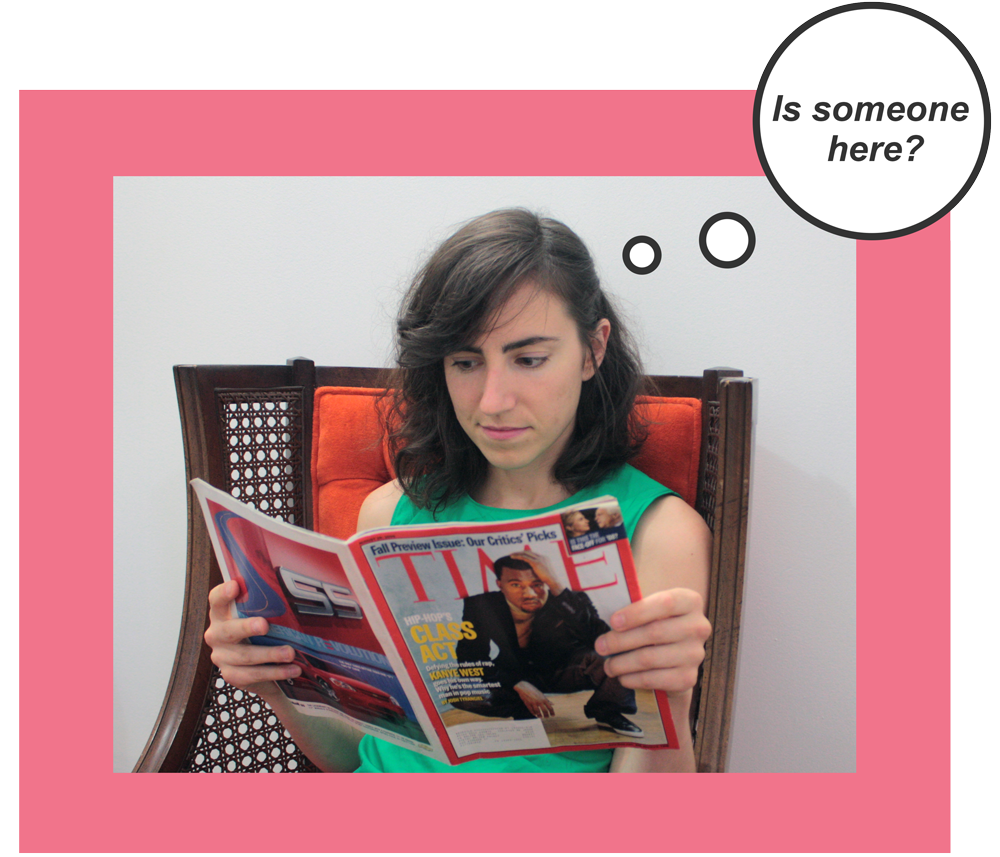
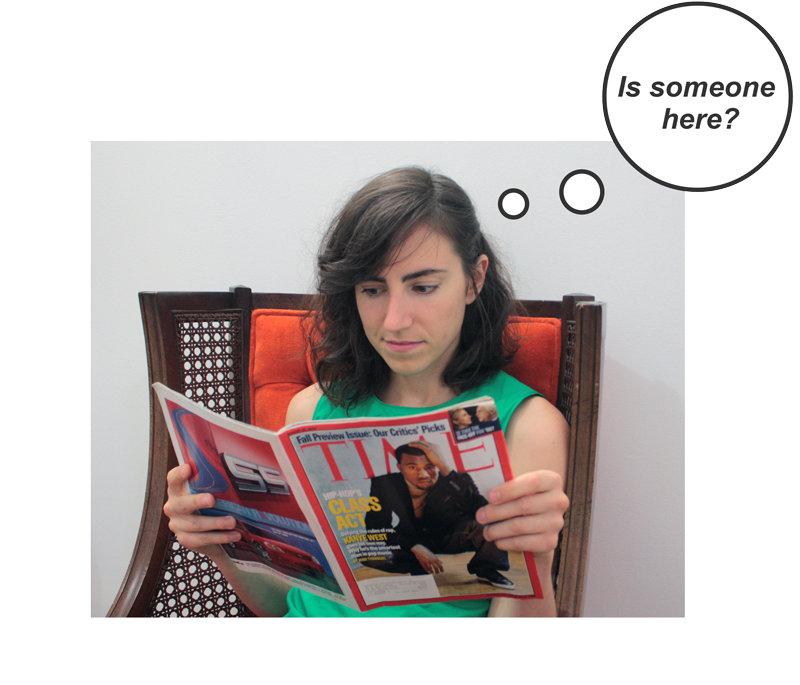
refinements!

diff --git a/portfolio-current/index.html b/portfolio-current/index.html
@@ -42,8 +42,8 @@
 		<a class="navigation__logo" href="../index.html"><img src="assets/images/general/tanyabrassielogo.svg"></a>
 		<ul class="navigation__list">
 			<li class="navigation__item"><a class="navigation__link" href="#work">Work</a></li> &#5159;
-			<li class="navigation__item"><a class="navigation__link" href="#work">About</a></li> &#5159;
-			<li class="navigation__item"><a class="navigation__link" href="#about">Contact</a></li>&#5159;
+<!-- 			<li class="navigation__item"><a class="navigation__link" href="#work">About</a></li> &#5159;
+ -->			<li class="navigation__item"><a class="navigation__link" href="#about">Contact</a></li>&#5159;
 			<li class="navigation__item--icon"><a href="https://dribbble.com/tanyabrassie"><img src="assets/images/general/dribbble.svg"></a></li>
 			<li class="navigation__item--icon"><a href="https://dribbble.com/tanyabrassie"><img src="assets/images/general/dribbble.svg"></a></li>
 		</ul>
@@ -52,13 +52,16 @@
 		<section class="welcome group"> </a>
 
 		<div class="welcome__container">
-			<img class="welcome__image" src="assets/images/general/tanya.png">
+			<div class="welcome__image-container">
+			<img class="welcome__image" src="assets/images/general/tanya.gif">
+			<!-- <svg class="nub" xmlns="http://www.w3.org/2000/svg" viewBox="0 0 960 560" enable-background="new 0 0 960 560"><path class="nub__arm-animation" fill="#C6C4B3" d="M410.1 341c-9.2 12.9-30.1 16-46.4 7-16.3-9-21.9-26.5-12.4-39.1 48.8-66.5 95.7-135 136.2-211.3 7.8-14.6 26.7-26.7 42.3-18.7 15.5 7.8 23.3 21.6 12.1 44.9-39.8 77-83.8 149.6-131.8 217.2z"/><path fill="#D3D3C1" d="M422 560c15.1-129.2-2.9-258.4-5.6-387.6-.2-5.8-.2-11.9-.2-17.7-.7-80.1-50.3-125.6-120.9-125.6-70.2 0-134.5 45.4-133.8 125.3-.2 0-.5-.2-1-.2 1.2 134.8 21.4 269.8 6.1 404.6 84.9.2 170.1.7 255.4 1.2z"/><path fill="#F95A6D" d="M343.8 287.8c-42.5 0-90.3-25-111.2-36.9l-37.6 7.3s10.9-12.9 17-20.4c5.3-6.8 20.2-23.6 20.2-23.6 23.8-26.2 49.8-49.5 80.9-63.1 15.5-6.8 31.6-10.4 47.4-10.4 38.6 0 69.9 21.9 76.5 53.2 4.6 21.9.7 42-10.7 57.8-12.9 17.7-34.5 29.4-63.9 34.5-6.3.8-12.3 1.6-18.6 1.6zm-81.9-57.1c18 10 54.2 27.4 85 27.4 4.1 0 8.3-.2 11.9-1 20.2-3.6 34.5-10.9 42.5-21.9 8.7-11.9 8-25.7 6.1-35.5-3.6-17.7-21.9-29.6-45.4-29.6-10.7 0-21.6 2.4-32.5 7.3-24.3 10.6-48.9 32.9-67.6 53.3z"/><path d="M261.7 230.2c18.5 10.2 54.9 27.7 86.5 27.7 4.4 0 8.3-.2 12.1-1 20.6-3.6 35-11.2 43.2-22.1 8.7-11.9 8.3-26.2 6.1-36.2-3.9-18-22.3-30.1-46.1-30.1-10.9 0-21.9 2.4-33 7.3-24.9 10.9-49.9 33.8-68.8 54.4zm124.6-112.9c-8.5 0-15.5-7-15.5-15.5s7-15.5 15.5-15.5 15.5 7 15.5 15.5-7 15.5-15.5 15.5zm0-27.9c-6.8 0-12.1 5.6-12.1 12.4s5.6 12.4 12.1 12.4c6.8 0 12.1-5.6 12.1-12.4s-5.3-12.4-12.1-12.4zM192 122.2c-8.5 0-15.5-7-15.5-15.5s7-15.5 15.5-15.5 15.5 7 15.5 15.5c0 8.7-7 15.5-15.5 15.5zm0-28.2c-6.8 0-12.1 5.6-12.1 12.4s5.3 12.4 12.1 12.4 12.1-5.6 12.1-12.4S198.5 94 192 94z"/><circle cx="190.8" cy="107.1" r="5.3"/><circle cx="385.3" cy="101.8" r="5.3"/><path d="M164.3 77c-.7 0-1.5-.2-1.9-1l-13.8-17c-.7-1-.7-2.7.2-3.4 1-.7 2.7-.7 3.4.2l13.8 17c.7 1 .7 2.7-.2 3.4-.5.5-1 .8-1.5.8zm-9.7 14.6c-.2 0-.7 0-1-.2l-21.9-9.7c-1.2-.5-1.7-1.9-1.2-3.2.5-1.2 1.9-1.7 3.2-1.2l21.9 9.7c1.2.5 1.7 1.9 1.2 3.2-.5.6-1.2 1.4-2.2 1.4zm257.4-17c-.5 0-1.2-.2-1.7-.7-1-1-1-2.4 0-3.4l16.3-17c1-1 2.4-1 3.4 0s1 2.4 0 3.4l-16.3 17c-.5.4-1 .7-1.7.7zm9.7 14.5c-1 0-1.7-.5-2.2-1.5-.5-1.2 0-2.7 1.2-3.2l21.9-9.7c1.2-.5 2.7 0 3.2 1.2s0 2.7-1.2 3.2l-21.9 9.7c-.3.1-.7.3-1 .3zm-160 206c-.7 6.3-4.4 7.8-8.7 7.3-4.4-.5-7.3-5.8-6.8-12.1s8-16 8-16c1.2 7.9 8.2 14.7 7.5 20.8z"/><path class="nub__arm-animation"fill="#C6C4B3" d="M212.6 317.6c6.1 14.8-2.4 31.6-19.7 37.6-17 6.1-36.4-1-43-15.8-33.5-76.7-52-149.1-71.9-226.1-3.8-14.7-.2-36.3 18.3-42.4 18.5-6.1 32.8 4.6 36.4 19.4 18.7 77 47.6 150.6 79.9 227.3z"/><ellipse fill="#fff" cx="756.8" cy="218.3" rx="165.1" ry="124.6"/><path fill="#fff" d="M590 255c.8 1.5-63.9-15.6-63.9-15.6s34.4-9.4 56.9-29.9c0 0-3.6 25.5 7 45.5z"/><path d="M727 172.4h.5c.7 0 1.5.2 1.9.7.5.5.7 1 .7 1.7 0 1-.2 1.5-.7 1.9-.5.5-1.2.5-2.2.5h-6.8c-1 0-1.7-.2-2.2-.5-.5-.5-.7-1-.7-1.9 0-1 .2-1.5.7-1.9.5-.5 1.2-.5 2.2-.5h.7l-1-2.7h-9.7l-1 2.7h.7c1 0 1.7.2 2.2.5.5.5.7 1 .7 1.9 0 1-.2 1.5-.7 1.9-.5.5-1.2.5-2.2.5h-5.8c-1 0-1.7-.2-2.2-.5s-.7-1-.7-1.9c0-.7.2-1.5.7-1.7s1-.7 1.9-.7h.5l6.1-16.8H709c-1 0-1.7-.2-2.2-.5-.5-.5-.7-1-.7-1.9s.2-1.5.7-1.9c.5-.5 1.2-.5 2.2-.5h8.5c1.5 0 2.2.7 2.9 2.2l6.6 19.4zm-11.9-17l-3.2 9.5h6.6l-3.4-9.5zm24.7 0v5.1h7.3v-5.1h-.2c-.7 0-1.5-.2-1.9-.7-.5-.5-.7-1-.7-1.9 0-1 .2-1.5.7-1.9.5-.5 1.2-.5 2.2-.5h5.8c1 0 1.7.2 2.2.5.5.5.7 1 .7 1.9 0 .7-.2 1.5-.7 1.9-.5.5-1 .7-1.7.7h-.5v17h.5c.7 0 1.5.2 1.9.7.5.5.7 1 .7 1.7 0 1-.2 1.5-.7 1.9-.5.5-1.2.5-2.2.5h-6.1c-1 0-1.7-.2-2.2-.5-.5-.5-.7-1-.7-1.9 0-.7.2-1.5.7-1.7.5-.5 1-.7 1.9-.7h.2v-6.6h-7.3v6.6h.2c.7 0 1.5.2 1.9.7.5.5.7 1 .7 1.7 0 1-.2 1.5-.7 1.9-.5.5-1.2.5-2.2.5H734c-1 0-1.7-.2-2.2-.5-.5-.5-.7-1-.7-1.9 0-.7.2-1.5.7-1.7.5-.5 1-.7 1.9-.7h.5v-17h-.5c-.7 0-1.5-.2-1.7-.7-.5-.5-.7-1-.7-1.9 0-1 .2-1.5.7-1.9.5-.5 1.2-.5 2.2-.5h5.8c1 0 1.7.2 2.2.5.5.2.7 1 .7 1.9 0 .7-.2 1.5-.7 1.9-.5.5-1 .7-1.9.7h-.5zm28 0v5.1h7.3v-5.1h-.2c-.7 0-1.5-.2-1.9-.7-.5-.5-.7-1-.7-1.9 0-1 .2-1.5.7-1.9.5-.5 1.2-.5 2.2-.5h5.8c1 0 1.7.2 2.2.5.5.5.7 1 .7 1.9 0 .7-.2 1.5-.7 1.9-.5.5-1 .7-1.7.7h-.5v17h.5c.7 0 1.5.2 1.9.7.5.5.7 1 .7 1.7 0 1-.2 1.5-.7 1.9-.5.5-1.2.5-2.2.5h-5.8c-1 0-1.7-.2-2.2-.5-.5-.5-.7-1-.7-1.9 0-.7.2-1.5.7-1.7.5-.5 1-.7 1.9-.7h.2v-6.6H768v6.6h.2c.7 0 1.5.2 1.9.7.5.5.7 1 .7 1.7 0 1-.2 1.5-.7 1.9-.5.5-1.2.5-2.2.5h-5.8c-1 0-1.7-.2-2.2-.5-.5-.5-.7-1-.7-1.9 0-.7.2-1.5.7-1.7.5-.5 1-.7 1.9-.7h.5v-17h-.5c-.7 0-1.5-.2-1.7-.7-.5-.5-.7-1-.7-1.9 0-1 .2-1.5.7-1.9.5-.5 1.2-.5 2.2-.5h5.8c1 0 1.7.2 2.2.5s.7 1 .7 1.9c0 .7-.2 1.5-.7 1.9-.5.5-1 .7-1.9.7h-.6zm31.5 14.8c1.5 0 2.4.2 3.2 1 .7.7 1.2 1.7 1.2 2.7 0 1.2-.5 1.9-1.2 2.7-.7.7-1.9 1-3.2 1-1.2 0-2.4-.2-3.2-1s-1.2-1.7-1.2-2.7c0-1.2.5-1.9 1.2-2.7.8-.7 2-1 3.2-1zm3-18.2l-1 14.6c0 .5-.2 1-.7 1.2-.5.2-1 .5-1.5.5s-1-.2-1.5-.5c-.5-.2-.5-.7-.7-1.2l-1-14.6v-.2c0-1 .2-1.7.7-2.2.5-.5 1.2-.7 2.2-.7 1 0 1.7.2 2.2.7 1 .7 1.3 1.4 1.3 2.4zm-137 54.4c.2-.5.5-.7.7-1 .2-.2.7-.2 1.2-.2 1 0 1.5.2 1.7.5s.5 1 .5 1.9v4.6c0 1-.2 1.5-.5 1.9-.2.2-1 .5-1.7.5-1 0-1.9-.5-2.4-1.7 0-.2-.2-.2-.2-.5-.5-1-1.2-1.7-1.9-2.2s-1.7-.7-2.9-.7c-1.5 0-2.4.2-3.4 1-.7.7-1.2 1.5-1.2 2.4 0 1.5 1.9 2.4 5.8 3.2.7.2 1.2.2 1.5.2 2.9.7 4.9 1.7 6.3 2.9 1.2 1.2 1.9 3.2 1.9 5.3 0 2.7-1 4.9-2.9 6.3-1.9 1.5-4.6 2.2-8 2.2-1.5 0-2.7 0-3.6-.2-1-.2-2.2-.5-3.2-.7-.2.5-.5.7-.7.7-.2 0-.7.2-1.2.2-1 0-1.7-.2-1.9-.5-.5-.2-.5-1-.5-1.9V225c0-1 .2-1.7.5-2.2.5-.5 1-.5 1.9-.5s1.7.7 2.4 2.2c.2.2.2.5.2.7.5 1.2 1.5 1.9 2.4 2.7 1 .5 2.4 1 3.9 1s2.4-.2 3.2-1 1.2-1.5 1.2-2.4c0-1.7-1.7-2.9-5.1-3.6-1-.2-1.9-.5-2.4-.7-2.9-.7-4.9-1.7-6.1-2.9-1.2-1.2-1.7-2.7-1.7-4.6 0-2.7 1-4.6 2.9-6.3 1.9-1.7 4.4-2.4 7.5-2.4 1 0 1.9 0 2.9.2.9.5 1.9.7 2.9 1.2zm22.3-1.2c3.6 0 6.8 1.2 9.2 3.9 2.4 2.7 3.6 6.1 3.6 10.2s-1.2 7.5-3.6 10.2c-2.4 2.7-5.3 3.9-9.2 3.9-3.6 0-6.8-1.2-9.2-3.9-2.4-2.7-3.6-6.1-3.6-10.2s1.2-7.5 3.6-10.2c2.4-2.7 5.6-3.9 9.2-3.9zm0 5.1c-1.9 0-3.4.7-4.6 2.4-1.2 1.5-1.7 3.6-1.7 6.6 0 2.9.5 4.9 1.7 6.6 1.2 1.5 2.7 2.4 4.6 2.4s3.4-.7 4.6-2.4c1.2-1.5 1.7-3.6 1.7-6.6 0-2.7-.5-4.9-1.7-6.6-1.2-1.4-2.6-2.4-4.6-2.4zm28 10.7l4.4-12.9c.2-.7.7-1.5 1.2-1.9.5-.5 1.2-.5 1.9-.5h3.4c1 0 1.7.2 2.2.5.5.5.7 1 .7 1.9 0 .7-.2 1.5-.7 1.9-.5.5-1 .7-1.9.7h-.2l.7 16.8h.5c.7 0 1.5.2 1.9.7s.7 1 .7 1.7c0 1-.2 1.5-.7 1.9-.5.5-1.2.5-2.2.5h-5.1c-1 0-1.7-.2-2.2-.5-.5-.5-.7-1-.7-1.9 0-.7.2-1.5.7-1.7.5-.5 1-.7 1.9-.7h.2l-.2-13.8-3.4 10.2c-.2.7-.5 1.2-1 1.7-.5.2-1 .5-1.9.5-.7 0-1.5-.2-1.9-.5-.5-.2-.7-1-1-1.7l-3.2-10.2-.2 13.8h.2c.7 0 1.5.2 1.9.7.5.5.7 1 .7 1.7 0 1-.2 1.5-.7 1.9-.5.5-1.2.5-2.2.5h-5.1c-1 0-1.7-.2-2.2-.5-.5-.2-.7-1-.7-1.9 0-.7.2-1.5.7-1.7.5-.5 1-.7 1.9-.7h.2l.7-16.8h-.2c-.7 0-1.5-.2-1.9-.7-.5-.5-.7-1-.7-1.9 0-1 .2-1.5.7-1.9.5-.5 1.2-.5 2.2-.5h3.4c.7 0 1.5.2 1.9.5.5.5 1 1 1.2 1.9l4.1 12.9zm34.4-10.2h-10.4v5.8h3.9v-.5c0-1 .2-1.5.5-1.9.5-.5 1-.7 1.7-.7s1.2.2 1.7.5c.5.5.7 1 .7 1.5v5.6c0 1-.2 1.7-.5 2.2-.2.5-1 .7-1.7.7s-1.5-.2-1.7-.7c-.5-.5-.5-1-.5-1.7v-.6h-3.9v6.8h10.4v-2.7c0-1 .2-1.7.5-2.2.5-.5 1-.7 1.9-.7 1 0 1.5.2 1.9.7.5.5.5 1.2.5 2.2v5.6c0 .7-.2 1.5-.5 1.7s-1 .5-1.9.5h-18.5c-1 0-1.7-.2-2.2-.5-.5-.5-.7-1-.7-1.9 0-.7.2-1.5.7-1.7s1-.7 1.7-.7h.5v-16.8h-.5c-.7 0-1.5-.2-1.7-.7-.5-.5-.7-1-.7-1.9 0-1 .2-1.5.7-1.9.5-.5 1.2-.5 2.2-.5h18.5c1 0 1.5.2 1.9.5.2.2.5.7.5 1.7v5.1c0 1-.2 1.7-.5 2.2-.5.5-1 .7-1.9.7-1 0-1.5-.2-1.9-.7-.5-.5-.5-1.2-.5-2.2v-2.7l-.2-.1zm21.4-5.6c3.6 0 6.8 1.2 9.2 3.9 2.4 2.7 3.6 6.1 3.6 10.2s-1.2 7.5-3.6 10.2c-2.4 2.7-5.3 3.9-9.2 3.9-3.6 0-6.8-1.2-9.2-3.9-2.4-2.7-3.6-6.1-3.6-10.2s1.2-7.5 3.6-10.2c2.4-2.7 5.6-3.9 9.2-3.9zm0 5.1c-1.9 0-3.4.7-4.6 2.4-1.2 1.5-1.7 3.6-1.7 6.6 0 2.9.5 4.9 1.7 6.6 1.2 1.5 2.7 2.4 4.6 2.4s3.4-.7 4.6-2.4c1.2-1.5 1.7-3.6 1.7-6.6 0-2.7-.5-4.9-1.7-6.6-1.2-1.4-2.6-2.4-4.6-2.4zm33 13.1V211h-1.2c-1 0-1.7-.2-2.2-.5-.5-.5-.7-1-.7-1.9 0-1 .2-1.5.7-1.9.5-.5 1.2-.5 2.2-.5h6.3c1 0 1.7.2 2.2.5.5.5.7 1 .7 1.9 0 .7-.2 1.5-.7 1.9-.5.5-1 .7-1.7.7h-.5v20.4c0 .7 0 1.2-.2 1.2-.2.2-.5.2-1 .2h-2.2c-.7 0-1.2 0-1.5-.2l-.7-.7-9.5-16.5v12.1h1.2c1 0 1.7.2 2.2.5.5.5.7 1 .7 1.9 0 1-.2 1.5-.7 1.9-.5.5-1.2.5-2.2.5H789c-1 0-1.7-.2-2.2-.5-.5-.5-.7-1-.7-1.9 0-.7.2-1.5.7-1.7s1-.7 1.7-.7h.2V211h-.2c-.7 0-1.5-.2-1.7-.7-.5-.5-.7-1-.7-1.9 0-1 .2-1.5.7-1.9.5-.5 1.2-.5 2.2-.5h3.6c1 0 1.5 0 1.7.2.2.2.7.7 1 1.5l9.1 15.7zm29.4-12.6h-10.4v5.8h3.9v-.5c0-1 .2-1.5.5-1.9.5-.5 1-.7 1.7-.7s1.2.2 1.7.5c.5.5.7 1 .7 1.5v5.6c0 1-.2 1.7-.5 2.2s-1 .7-1.7.7-1.5-.2-1.7-.7c-.5-.5-.5-1-.5-1.7v-.6h-3.9v6.8H834v-2.7c0-1 .2-1.7.5-2.2.5-.5 1-.7 1.9-.7 1 0 1.5.2 1.9.7.5.5.5 1.2.5 2.2v5.6c0 .7-.2 1.5-.5 1.7s-1 .5-1.9.5H818c-1 0-1.7-.2-2.2-.5-.5-.5-.7-1-.7-1.9 0-.7.2-1.5.7-1.7s1-.7 1.7-.7h.5v-16.8h-.5c-.7 0-1.5-.2-1.7-.7-.5-.5-.7-1-.7-1.9 0-1 .2-1.5.7-1.9.5-.5 1.2-.5 2.2-.5h18.5c1 0 1.5.2 1.9.5.2.2.5.7.5 1.7v5.1c0 1-.2 1.7-.5 2.2-.5.5-1 .7-1.9.7-1 0-1.5-.2-1.9-.7-.5-.5-.5-1.2-.5-2.2v-2.7l-.3-.1zm20.9-4.9h4.4c.2 0 .2 0 .5.2l.2.2v.5l-5.6 10.7c0 .2-.2.5-.5.5s-.2.2-.5.2h-.5l-1.5-.5c-.2 0-.5-.2-.5-.2 0-.2-.2-.2-.2-.5v-.5l2.7-9.5c.2-.5.2-.7.5-1 .5-.1.8-.1 1-.1zm34 .5c.2-.5.5-.7.7-1 .2-.2.7-.2 1.2-.2 1 0 1.5.2 1.7.5s.5 1 .5 1.9v4.6c0 1-.2 1.5-.5 1.9-.2.2-1 .5-1.7.5-1 0-1.9-.5-2.4-1.7 0-.2-.2-.2-.2-.5-.5-1-1.2-1.7-1.9-2.2s-1.7-.7-2.9-.7c-1.5 0-2.4.2-3.4 1-.7.7-1.2 1.5-1.2 2.4 0 1.5 1.9 2.4 5.8 3.2.7.2 1.2.2 1.5.2 2.9.7 4.9 1.7 6.3 2.9 1.2 1.2 1.9 3.2 1.9 5.3 0 2.7-1 4.9-2.9 6.3-1.9 1.5-4.6 2.2-8 2.2-1.5 0-2.7 0-3.6-.2-1-.2-2.2-.5-3.2-.7-.2.5-.5.7-.7.7-.2 0-.7.2-1.2.2-1 0-1.7-.2-1.9-.5-.5-.2-.5-1-.5-1.9V225c0-1 .2-1.7.5-2.2.5-.5 1-.5 1.9-.5 1 0 1.7.7 2.4 2.2.2.2.2.5.2.7.5 1.2 1.5 1.9 2.4 2.7 1 .5 2.4 1 3.9 1s2.4-.2 3.2-1 1.2-1.5 1.2-2.4c0-1.7-1.7-2.9-5.1-3.6-1-.2-1.9-.5-2.4-.7-2.9-.7-4.9-1.7-6.1-2.9-1.2-1.2-1.7-2.7-1.7-4.6 0-2.7 1-4.6 2.9-6.3s4.4-2.4 7.5-2.4c1 0 1.9 0 2.9.2 1 .5 1.9.7 2.9 1.2zm-176.8 59.8v5.1h7.3v-5.1h-.2c-.7 0-1.5-.2-1.9-.7-.5-.5-.7-1-.7-1.9 0-1 .2-1.5.7-1.9.5-.5 1.2-.5 2.2-.5h5.8c1 0 1.7.2 2.2.5.5.5.7 1 .7 1.9 0 .7-.2 1.5-.7 1.9-.5.5-1 .7-1.7.7h-.6V283h.5c.7 0 1.5.2 1.9.7.5.5.7 1 .7 1.7 0 1-.2 1.5-.7 1.9-.5.5-1.2.5-2.2.5h-5.8c-1 0-1.7-.2-2.2-.5-.5-.5-.7-1-.7-1.9 0-.7.2-1.5.7-1.7.5-.5 1-.7 1.9-.7h.2v-6.6H712v6.6h.2c.7 0 1.5.2 1.9.7.5.5.7 1 .7 1.7 0 1-.2 1.5-.7 1.9-.5.5-1.2.5-2.2.5h-5.8c-1 0-1.7-.2-2.2-.5-.5-.5-.7-1-.7-1.9 0-.7.2-1.5.7-1.7.5-.5 1-.7 1.9-.7h.5v-16.8h-.5c-.7 0-1.5-.2-1.7-.7-.5-.5-.7-1-.7-1.9 0-1 .2-1.5.7-1.9.5-.5 1.2-.5 2.2-.5h5.8c1 0 1.7.2 2.2.5.5.2.7 1 .7 1.9 0 .7-.2 1.5-.7 1.9-.5.5-1 .7-1.9.7h-.5zm38.1 0h-10.4v5.8h3.9v-.2c0-1 .2-1.5.5-1.9.5-.5 1-.7 1.7-.7s1.2.2 1.7.5c.5.5.7 1 .7 1.5v5.3c0 1-.2 1.7-.5 2.2-.2.5-1 .7-1.7.7s-1.5-.2-1.7-.7c-.5-.5-.5-1-.5-1.7v-.5h-3.9v6.8h10.4v-2.7c0-1 .2-1.7.5-2.2.5-.5 1-.7 1.9-.7 1 0 1.5.2 1.9.7.5.5.5 1.2.5 2.2v5.3c0 .7-.2 1.5-.5 1.7s-1 .5-1.9.5h-18.5c-1 0-1.7-.2-2.2-.5-.5-.5-.7-1-.7-1.9 0-.7.2-1.5.7-1.7s1-.7 1.7-.7h.5v-16.8h-.5c-.7 0-1.5-.2-1.7-.7-.5-.5-.7-1-.7-1.9 0-1 .2-1.5.7-1.9.5-.5 1.2-.5 2.2-.5h18.5c1 0 1.5.2 1.9.5.2.2.5.7.5 1.7v5.1c0 1-.2 1.7-.5 2.2-.5.5-1 .7-1.9.7-1 0-1.5-.2-1.9-.7-.5-.5-.5-1.2-.5-2.2v-2.4l-.2-.2zm27 9.4c.5.2.7.7 1.2 1.2 0 0 0 .2.2.2l3.6 5.8h.7c1 0 1.5.2 1.9.5.5.5.7 1 .7 1.9 0 1-.2 1.5-.7 1.9-.5.5-1.2.5-2.2.5h-2.7c-1 0-1.7-.5-2.4-1.2l-5.6-8.5-.7-.7s-.5-.2-1-.2h-2v5.8h.2c.7 0 1.5.2 1.9.7.5.5.7 1 .7 1.7 0 1-.2 1.5-.7 1.9-.5.5-1.2.5-2.2.5h-5.8c-1 0-1.7-.2-2.2-.5-.5-.5-.7-1-.7-1.9 0-.7.2-1.5.7-1.7.5-.5 1-.7 1.7-.7h.5V266h-.5c-.7 0-1.5-.2-1.7-.7-.5-.5-.7-1-.7-1.9 0-1 .2-1.5.7-1.9.5-.5 1.2-.5 2.2-.5h10.4c3.2 0 5.6.7 7.3 1.9s2.4 3.2 2.4 5.6c0 1.7-.5 3.2-1.5 4.4-.8 1.3-2 2.2-3.7 2.7zm-9.2-9.4v6.3h3.2c1.9 0 3.2-.2 3.9-.7.7-.5 1.2-1.2 1.2-2.4s-.2-1.9-1-2.4c-.7-.5-1.7-.7-3.4-.7h-3.9v-.1zm38.1 0h-10.4v5.8h3.9v-.2c0-1 .2-1.5.5-1.9.5-.5 1-.7 1.7-.7s1.2.2 1.7.5c.5.5.7 1 .7 1.5v5.3c0 1-.2 1.7-.5 2.2-.2.5-1 .7-1.7.7s-1.5-.2-1.7-.7c-.5-.5-.5-1-.5-1.7v-.5h-3.9v6.8h10.4v-2.7c0-1 .2-1.7.5-2.2.5-.5 1-.7 1.9-.7s1.5.2 1.9.7c.5.5.5 1.2.5 2.2v5.3c0 .7-.2 1.5-.5 1.7s-1 .5-1.9.5H790c-1 0-1.7-.2-2.2-.5-.5-.5-.7-1-.7-1.9 0-.7.2-1.5.7-1.7s1-.7 1.7-.7h.5v-16.8h-.5c-.7 0-1.5-.2-1.7-.7-.5-.5-.7-1-.7-1.9 0-1 .2-1.5.7-1.9.5-.5 1.2-.5 2.2-.5h18.5c1 0 1.5.2 1.9.5.2.2.5.7.5 1.7v5.1c0 1-.2 1.7-.5 2.2-.5.5-1 .7-1.9.7s-1.5-.2-1.9-.7c-.5-.5-.5-1.2-.5-2.2v-2.4l-.2-.2zm21.4 14.8c1.5 0 2.4.2 3.2 1 .7.7 1.2 1.7 1.2 2.7 0 1.2-.5 1.9-1.2 2.7-.7.7-1.9 1-3.2 1s-2.4-.2-3.2-1c-.7-.7-1.2-1.7-1.2-2.7 0-1.2.5-1.9 1.2-2.7.7-.8 2-1 3.2-1zm2.9-18.2l-1 14.6c0 .5-.2 1-.7 1.2-.5.2-1 .5-1.5.5s-1-.2-1.5-.5c-.5-.2-.5-.7-.7-1.2l-1-14.6v-.2c0-1 .2-1.7.7-2.2.5-.5 1.2-.7 2.2-.7s1.7.2 2.2.7c1 .7 1.3 1.4 1.3 2.4z"/></svg> -->
+		</div>
 			<div class="welcome__message">
 				<div class="welcome__headline">Hey You! Over here!</div>
 				<p class="welcome__paragraph">It's me, Tanya and I'm a product designer at Priceline.com where I've helped build the Priceline style guide and improve the post-booking experience. Although my background is in user-research, my role at Priceline allows me to do many things from user-research to visual design to coding, which I love since it allows me to be involved in every stage of a project's lifespan and to develop a thorough understanding of the product. In my free time I like tinkering around with new technologies, being outside and creating designs for make believe businesses. 
 				</div>	
 			</div>  
-			<svg class="nub" xmlns="http://www.w3.org/2000/svg" viewBox="0 0 960 560" enable-background="new 0 0 960 560"><path class="nub__arm-animation" fill="#C6C4B3" d="M410.1 341c-9.2 12.9-30.1 16-46.4 7-16.3-9-21.9-26.5-12.4-39.1 48.8-66.5 95.7-135 136.2-211.3 7.8-14.6 26.7-26.7 42.3-18.7 15.5 7.8 23.3 21.6 12.1 44.9-39.8 77-83.8 149.6-131.8 217.2z"/><path fill="#D3D3C1" d="M422 560c15.1-129.2-2.9-258.4-5.6-387.6-.2-5.8-.2-11.9-.2-17.7-.7-80.1-50.3-125.6-120.9-125.6-70.2 0-134.5 45.4-133.8 125.3-.2 0-.5-.2-1-.2 1.2 134.8 21.4 269.8 6.1 404.6 84.9.2 170.1.7 255.4 1.2z"/><path fill="#F95A6D" d="M343.8 287.8c-42.5 0-90.3-25-111.2-36.9l-37.6 7.3s10.9-12.9 17-20.4c5.3-6.8 20.2-23.6 20.2-23.6 23.8-26.2 49.8-49.5 80.9-63.1 15.5-6.8 31.6-10.4 47.4-10.4 38.6 0 69.9 21.9 76.5 53.2 4.6 21.9.7 42-10.7 57.8-12.9 17.7-34.5 29.4-63.9 34.5-6.3.8-12.3 1.6-18.6 1.6zm-81.9-57.1c18 10 54.2 27.4 85 27.4 4.1 0 8.3-.2 11.9-1 20.2-3.6 34.5-10.9 42.5-21.9 8.7-11.9 8-25.7 6.1-35.5-3.6-17.7-21.9-29.6-45.4-29.6-10.7 0-21.6 2.4-32.5 7.3-24.3 10.6-48.9 32.9-67.6 53.3z"/><path d="M261.7 230.2c18.5 10.2 54.9 27.7 86.5 27.7 4.4 0 8.3-.2 12.1-1 20.6-3.6 35-11.2 43.2-22.1 8.7-11.9 8.3-26.2 6.1-36.2-3.9-18-22.3-30.1-46.1-30.1-10.9 0-21.9 2.4-33 7.3-24.9 10.9-49.9 33.8-68.8 54.4zm124.6-112.9c-8.5 0-15.5-7-15.5-15.5s7-15.5 15.5-15.5 15.5 7 15.5 15.5-7 15.5-15.5 15.5zm0-27.9c-6.8 0-12.1 5.6-12.1 12.4s5.6 12.4 12.1 12.4c6.8 0 12.1-5.6 12.1-12.4s-5.3-12.4-12.1-12.4zM192 122.2c-8.5 0-15.5-7-15.5-15.5s7-15.5 15.5-15.5 15.5 7 15.5 15.5c0 8.7-7 15.5-15.5 15.5zm0-28.2c-6.8 0-12.1 5.6-12.1 12.4s5.3 12.4 12.1 12.4 12.1-5.6 12.1-12.4S198.5 94 192 94z"/><circle cx="190.8" cy="107.1" r="5.3"/><circle cx="385.3" cy="101.8" r="5.3"/><path d="M164.3 77c-.7 0-1.5-.2-1.9-1l-13.8-17c-.7-1-.7-2.7.2-3.4 1-.7 2.7-.7 3.4.2l13.8 17c.7 1 .7 2.7-.2 3.4-.5.5-1 .8-1.5.8zm-9.7 14.6c-.2 0-.7 0-1-.2l-21.9-9.7c-1.2-.5-1.7-1.9-1.2-3.2.5-1.2 1.9-1.7 3.2-1.2l21.9 9.7c1.2.5 1.7 1.9 1.2 3.2-.5.6-1.2 1.4-2.2 1.4zm257.4-17c-.5 0-1.2-.2-1.7-.7-1-1-1-2.4 0-3.4l16.3-17c1-1 2.4-1 3.4 0s1 2.4 0 3.4l-16.3 17c-.5.4-1 .7-1.7.7zm9.7 14.5c-1 0-1.7-.5-2.2-1.5-.5-1.2 0-2.7 1.2-3.2l21.9-9.7c1.2-.5 2.7 0 3.2 1.2s0 2.7-1.2 3.2l-21.9 9.7c-.3.1-.7.3-1 .3zm-160 206c-.7 6.3-4.4 7.8-8.7 7.3-4.4-.5-7.3-5.8-6.8-12.1s8-16 8-16c1.2 7.9 8.2 14.7 7.5 20.8z"/><path class="nub__arm-animation"fill="#C6C4B3" d="M212.6 317.6c6.1 14.8-2.4 31.6-19.7 37.6-17 6.1-36.4-1-43-15.8-33.5-76.7-52-149.1-71.9-226.1-3.8-14.7-.2-36.3 18.3-42.4 18.5-6.1 32.8 4.6 36.4 19.4 18.7 77 47.6 150.6 79.9 227.3z"/><ellipse fill="#fff" cx="756.8" cy="218.3" rx="165.1" ry="124.6"/><path fill="#fff" d="M590 255c.8 1.5-63.9-15.6-63.9-15.6s34.4-9.4 56.9-29.9c0 0-3.6 25.5 7 45.5z"/><path d="M727 172.4h.5c.7 0 1.5.2 1.9.7.5.5.7 1 .7 1.7 0 1-.2 1.5-.7 1.9-.5.5-1.2.5-2.2.5h-6.8c-1 0-1.7-.2-2.2-.5-.5-.5-.7-1-.7-1.9 0-1 .2-1.5.7-1.9.5-.5 1.2-.5 2.2-.5h.7l-1-2.7h-9.7l-1 2.7h.7c1 0 1.7.2 2.2.5.5.5.7 1 .7 1.9 0 1-.2 1.5-.7 1.9-.5.5-1.2.5-2.2.5h-5.8c-1 0-1.7-.2-2.2-.5s-.7-1-.7-1.9c0-.7.2-1.5.7-1.7s1-.7 1.9-.7h.5l6.1-16.8H709c-1 0-1.7-.2-2.2-.5-.5-.5-.7-1-.7-1.9s.2-1.5.7-1.9c.5-.5 1.2-.5 2.2-.5h8.5c1.5 0 2.2.7 2.9 2.2l6.6 19.4zm-11.9-17l-3.2 9.5h6.6l-3.4-9.5zm24.7 0v5.1h7.3v-5.1h-.2c-.7 0-1.5-.2-1.9-.7-.5-.5-.7-1-.7-1.9 0-1 .2-1.5.7-1.9.5-.5 1.2-.5 2.2-.5h5.8c1 0 1.7.2 2.2.5.5.5.7 1 .7 1.9 0 .7-.2 1.5-.7 1.9-.5.5-1 .7-1.7.7h-.5v17h.5c.7 0 1.5.2 1.9.7.5.5.7 1 .7 1.7 0 1-.2 1.5-.7 1.9-.5.5-1.2.5-2.2.5h-6.1c-1 0-1.7-.2-2.2-.5-.5-.5-.7-1-.7-1.9 0-.7.2-1.5.7-1.7.5-.5 1-.7 1.9-.7h.2v-6.6h-7.3v6.6h.2c.7 0 1.5.2 1.9.7.5.5.7 1 .7 1.7 0 1-.2 1.5-.7 1.9-.5.5-1.2.5-2.2.5H734c-1 0-1.7-.2-2.2-.5-.5-.5-.7-1-.7-1.9 0-.7.2-1.5.7-1.7.5-.5 1-.7 1.9-.7h.5v-17h-.5c-.7 0-1.5-.2-1.7-.7-.5-.5-.7-1-.7-1.9 0-1 .2-1.5.7-1.9.5-.5 1.2-.5 2.2-.5h5.8c1 0 1.7.2 2.2.5.5.2.7 1 .7 1.9 0 .7-.2 1.5-.7 1.9-.5.5-1 .7-1.9.7h-.5zm28 0v5.1h7.3v-5.1h-.2c-.7 0-1.5-.2-1.9-.7-.5-.5-.7-1-.7-1.9 0-1 .2-1.5.7-1.9.5-.5 1.2-.5 2.2-.5h5.8c1 0 1.7.2 2.2.5.5.5.7 1 .7 1.9 0 .7-.2 1.5-.7 1.9-.5.5-1 .7-1.7.7h-.5v17h.5c.7 0 1.5.2 1.9.7.5.5.7 1 .7 1.7 0 1-.2 1.5-.7 1.9-.5.5-1.2.5-2.2.5h-5.8c-1 0-1.7-.2-2.2-.5-.5-.5-.7-1-.7-1.9 0-.7.2-1.5.7-1.7.5-.5 1-.7 1.9-.7h.2v-6.6H768v6.6h.2c.7 0 1.5.2 1.9.7.5.5.7 1 .7 1.7 0 1-.2 1.5-.7 1.9-.5.5-1.2.5-2.2.5h-5.8c-1 0-1.7-.2-2.2-.5-.5-.5-.7-1-.7-1.9 0-.7.2-1.5.7-1.7.5-.5 1-.7 1.9-.7h.5v-17h-.5c-.7 0-1.5-.2-1.7-.7-.5-.5-.7-1-.7-1.9 0-1 .2-1.5.7-1.9.5-.5 1.2-.5 2.2-.5h5.8c1 0 1.7.2 2.2.5s.7 1 .7 1.9c0 .7-.2 1.5-.7 1.9-.5.5-1 .7-1.9.7h-.6zm31.5 14.8c1.5 0 2.4.2 3.2 1 .7.7 1.2 1.7 1.2 2.7 0 1.2-.5 1.9-1.2 2.7-.7.7-1.9 1-3.2 1-1.2 0-2.4-.2-3.2-1s-1.2-1.7-1.2-2.7c0-1.2.5-1.9 1.2-2.7.8-.7 2-1 3.2-1zm3-18.2l-1 14.6c0 .5-.2 1-.7 1.2-.5.2-1 .5-1.5.5s-1-.2-1.5-.5c-.5-.2-.5-.7-.7-1.2l-1-14.6v-.2c0-1 .2-1.7.7-2.2.5-.5 1.2-.7 2.2-.7 1 0 1.7.2 2.2.7 1 .7 1.3 1.4 1.3 2.4zm-137 54.4c.2-.5.5-.7.7-1 .2-.2.7-.2 1.2-.2 1 0 1.5.2 1.7.5s.5 1 .5 1.9v4.6c0 1-.2 1.5-.5 1.9-.2.2-1 .5-1.7.5-1 0-1.9-.5-2.4-1.7 0-.2-.2-.2-.2-.5-.5-1-1.2-1.7-1.9-2.2s-1.7-.7-2.9-.7c-1.5 0-2.4.2-3.4 1-.7.7-1.2 1.5-1.2 2.4 0 1.5 1.9 2.4 5.8 3.2.7.2 1.2.2 1.5.2 2.9.7 4.9 1.7 6.3 2.9 1.2 1.2 1.9 3.2 1.9 5.3 0 2.7-1 4.9-2.9 6.3-1.9 1.5-4.6 2.2-8 2.2-1.5 0-2.7 0-3.6-.2-1-.2-2.2-.5-3.2-.7-.2.5-.5.7-.7.7-.2 0-.7.2-1.2.2-1 0-1.7-.2-1.9-.5-.5-.2-.5-1-.5-1.9V225c0-1 .2-1.7.5-2.2.5-.5 1-.5 1.9-.5s1.7.7 2.4 2.2c.2.2.2.5.2.7.5 1.2 1.5 1.9 2.4 2.7 1 .5 2.4 1 3.9 1s2.4-.2 3.2-1 1.2-1.5 1.2-2.4c0-1.7-1.7-2.9-5.1-3.6-1-.2-1.9-.5-2.4-.7-2.9-.7-4.9-1.7-6.1-2.9-1.2-1.2-1.7-2.7-1.7-4.6 0-2.7 1-4.6 2.9-6.3 1.9-1.7 4.4-2.4 7.5-2.4 1 0 1.9 0 2.9.2.9.5 1.9.7 2.9 1.2zm22.3-1.2c3.6 0 6.8 1.2 9.2 3.9 2.4 2.7 3.6 6.1 3.6 10.2s-1.2 7.5-3.6 10.2c-2.4 2.7-5.3 3.9-9.2 3.9-3.6 0-6.8-1.2-9.2-3.9-2.4-2.7-3.6-6.1-3.6-10.2s1.2-7.5 3.6-10.2c2.4-2.7 5.6-3.9 9.2-3.9zm0 5.1c-1.9 0-3.4.7-4.6 2.4-1.2 1.5-1.7 3.6-1.7 6.6 0 2.9.5 4.9 1.7 6.6 1.2 1.5 2.7 2.4 4.6 2.4s3.4-.7 4.6-2.4c1.2-1.5 1.7-3.6 1.7-6.6 0-2.7-.5-4.9-1.7-6.6-1.2-1.4-2.6-2.4-4.6-2.4zm28 10.7l4.4-12.9c.2-.7.7-1.5 1.2-1.9.5-.5 1.2-.5 1.9-.5h3.4c1 0 1.7.2 2.2.5.5.5.7 1 .7 1.9 0 .7-.2 1.5-.7 1.9-.5.5-1 .7-1.9.7h-.2l.7 16.8h.5c.7 0 1.5.2 1.9.7s.7 1 .7 1.7c0 1-.2 1.5-.7 1.9-.5.5-1.2.5-2.2.5h-5.1c-1 0-1.7-.2-2.2-.5-.5-.5-.7-1-.7-1.9 0-.7.2-1.5.7-1.7.5-.5 1-.7 1.9-.7h.2l-.2-13.8-3.4 10.2c-.2.7-.5 1.2-1 1.7-.5.2-1 .5-1.9.5-.7 0-1.5-.2-1.9-.5-.5-.2-.7-1-1-1.7l-3.2-10.2-.2 13.8h.2c.7 0 1.5.2 1.9.7.5.5.7 1 .7 1.7 0 1-.2 1.5-.7 1.9-.5.5-1.2.5-2.2.5h-5.1c-1 0-1.7-.2-2.2-.5-.5-.2-.7-1-.7-1.9 0-.7.2-1.5.7-1.7.5-.5 1-.7 1.9-.7h.2l.7-16.8h-.2c-.7 0-1.5-.2-1.9-.7-.5-.5-.7-1-.7-1.9 0-1 .2-1.5.7-1.9.5-.5 1.2-.5 2.2-.5h3.4c.7 0 1.5.2 1.9.5.5.5 1 1 1.2 1.9l4.1 12.9zm34.4-10.2h-10.4v5.8h3.9v-.5c0-1 .2-1.5.5-1.9.5-.5 1-.7 1.7-.7s1.2.2 1.7.5c.5.5.7 1 .7 1.5v5.6c0 1-.2 1.7-.5 2.2-.2.5-1 .7-1.7.7s-1.5-.2-1.7-.7c-.5-.5-.5-1-.5-1.7v-.6h-3.9v6.8h10.4v-2.7c0-1 .2-1.7.5-2.2.5-.5 1-.7 1.9-.7 1 0 1.5.2 1.9.7.5.5.5 1.2.5 2.2v5.6c0 .7-.2 1.5-.5 1.7s-1 .5-1.9.5h-18.5c-1 0-1.7-.2-2.2-.5-.5-.5-.7-1-.7-1.9 0-.7.2-1.5.7-1.7s1-.7 1.7-.7h.5v-16.8h-.5c-.7 0-1.5-.2-1.7-.7-.5-.5-.7-1-.7-1.9 0-1 .2-1.5.7-1.9.5-.5 1.2-.5 2.2-.5h18.5c1 0 1.5.2 1.9.5.2.2.5.7.5 1.7v5.1c0 1-.2 1.7-.5 2.2-.5.5-1 .7-1.9.7-1 0-1.5-.2-1.9-.7-.5-.5-.5-1.2-.5-2.2v-2.7l-.2-.1zm21.4-5.6c3.6 0 6.8 1.2 9.2 3.9 2.4 2.7 3.6 6.1 3.6 10.2s-1.2 7.5-3.6 10.2c-2.4 2.7-5.3 3.9-9.2 3.9-3.6 0-6.8-1.2-9.2-3.9-2.4-2.7-3.6-6.1-3.6-10.2s1.2-7.5 3.6-10.2c2.4-2.7 5.6-3.9 9.2-3.9zm0 5.1c-1.9 0-3.4.7-4.6 2.4-1.2 1.5-1.7 3.6-1.7 6.6 0 2.9.5 4.9 1.7 6.6 1.2 1.5 2.7 2.4 4.6 2.4s3.4-.7 4.6-2.4c1.2-1.5 1.7-3.6 1.7-6.6 0-2.7-.5-4.9-1.7-6.6-1.2-1.4-2.6-2.4-4.6-2.4zm33 13.1V211h-1.2c-1 0-1.7-.2-2.2-.5-.5-.5-.7-1-.7-1.9 0-1 .2-1.5.7-1.9.5-.5 1.2-.5 2.2-.5h6.3c1 0 1.7.2 2.2.5.5.5.7 1 .7 1.9 0 .7-.2 1.5-.7 1.9-.5.5-1 .7-1.7.7h-.5v20.4c0 .7 0 1.2-.2 1.2-.2.2-.5.2-1 .2h-2.2c-.7 0-1.2 0-1.5-.2l-.7-.7-9.5-16.5v12.1h1.2c1 0 1.7.2 2.2.5.5.5.7 1 .7 1.9 0 1-.2 1.5-.7 1.9-.5.5-1.2.5-2.2.5H789c-1 0-1.7-.2-2.2-.5-.5-.5-.7-1-.7-1.9 0-.7.2-1.5.7-1.7s1-.7 1.7-.7h.2V211h-.2c-.7 0-1.5-.2-1.7-.7-.5-.5-.7-1-.7-1.9 0-1 .2-1.5.7-1.9.5-.5 1.2-.5 2.2-.5h3.6c1 0 1.5 0 1.7.2.2.2.7.7 1 1.5l9.1 15.7zm29.4-12.6h-10.4v5.8h3.9v-.5c0-1 .2-1.5.5-1.9.5-.5 1-.7 1.7-.7s1.2.2 1.7.5c.5.5.7 1 .7 1.5v5.6c0 1-.2 1.7-.5 2.2s-1 .7-1.7.7-1.5-.2-1.7-.7c-.5-.5-.5-1-.5-1.7v-.6h-3.9v6.8H834v-2.7c0-1 .2-1.7.5-2.2.5-.5 1-.7 1.9-.7 1 0 1.5.2 1.9.7.5.5.5 1.2.5 2.2v5.6c0 .7-.2 1.5-.5 1.7s-1 .5-1.9.5H818c-1 0-1.7-.2-2.2-.5-.5-.5-.7-1-.7-1.9 0-.7.2-1.5.7-1.7s1-.7 1.7-.7h.5v-16.8h-.5c-.7 0-1.5-.2-1.7-.7-.5-.5-.7-1-.7-1.9 0-1 .2-1.5.7-1.9.5-.5 1.2-.5 2.2-.5h18.5c1 0 1.5.2 1.9.5.2.2.5.7.5 1.7v5.1c0 1-.2 1.7-.5 2.2-.5.5-1 .7-1.9.7-1 0-1.5-.2-1.9-.7-.5-.5-.5-1.2-.5-2.2v-2.7l-.3-.1zm20.9-4.9h4.4c.2 0 .2 0 .5.2l.2.2v.5l-5.6 10.7c0 .2-.2.5-.5.5s-.2.2-.5.2h-.5l-1.5-.5c-.2 0-.5-.2-.5-.2 0-.2-.2-.2-.2-.5v-.5l2.7-9.5c.2-.5.2-.7.5-1 .5-.1.8-.1 1-.1zm34 .5c.2-.5.5-.7.7-1 .2-.2.7-.2 1.2-.2 1 0 1.5.2 1.7.5s.5 1 .5 1.9v4.6c0 1-.2 1.5-.5 1.9-.2.2-1 .5-1.7.5-1 0-1.9-.5-2.4-1.7 0-.2-.2-.2-.2-.5-.5-1-1.2-1.7-1.9-2.2s-1.7-.7-2.9-.7c-1.5 0-2.4.2-3.4 1-.7.7-1.2 1.5-1.2 2.4 0 1.5 1.9 2.4 5.8 3.2.7.2 1.2.2 1.5.2 2.9.7 4.9 1.7 6.3 2.9 1.2 1.2 1.9 3.2 1.9 5.3 0 2.7-1 4.9-2.9 6.3-1.9 1.5-4.6 2.2-8 2.2-1.5 0-2.7 0-3.6-.2-1-.2-2.2-.5-3.2-.7-.2.5-.5.7-.7.7-.2 0-.7.2-1.2.2-1 0-1.7-.2-1.9-.5-.5-.2-.5-1-.5-1.9V225c0-1 .2-1.7.5-2.2.5-.5 1-.5 1.9-.5 1 0 1.7.7 2.4 2.2.2.2.2.5.2.7.5 1.2 1.5 1.9 2.4 2.7 1 .5 2.4 1 3.9 1s2.4-.2 3.2-1 1.2-1.5 1.2-2.4c0-1.7-1.7-2.9-5.1-3.6-1-.2-1.9-.5-2.4-.7-2.9-.7-4.9-1.7-6.1-2.9-1.2-1.2-1.7-2.7-1.7-4.6 0-2.7 1-4.6 2.9-6.3s4.4-2.4 7.5-2.4c1 0 1.9 0 2.9.2 1 .5 1.9.7 2.9 1.2zm-176.8 59.8v5.1h7.3v-5.1h-.2c-.7 0-1.5-.2-1.9-.7-.5-.5-.7-1-.7-1.9 0-1 .2-1.5.7-1.9.5-.5 1.2-.5 2.2-.5h5.8c1 0 1.7.2 2.2.5.5.5.7 1 .7 1.9 0 .7-.2 1.5-.7 1.9-.5.5-1 .7-1.7.7h-.6V283h.5c.7 0 1.5.2 1.9.7.5.5.7 1 .7 1.7 0 1-.2 1.5-.7 1.9-.5.5-1.2.5-2.2.5h-5.8c-1 0-1.7-.2-2.2-.5-.5-.5-.7-1-.7-1.9 0-.7.2-1.5.7-1.7.5-.5 1-.7 1.9-.7h.2v-6.6H712v6.6h.2c.7 0 1.5.2 1.9.7.5.5.7 1 .7 1.7 0 1-.2 1.5-.7 1.9-.5.5-1.2.5-2.2.5h-5.8c-1 0-1.7-.2-2.2-.5-.5-.5-.7-1-.7-1.9 0-.7.2-1.5.7-1.7.5-.5 1-.7 1.9-.7h.5v-16.8h-.5c-.7 0-1.5-.2-1.7-.7-.5-.5-.7-1-.7-1.9 0-1 .2-1.5.7-1.9.5-.5 1.2-.5 2.2-.5h5.8c1 0 1.7.2 2.2.5.5.2.7 1 .7 1.9 0 .7-.2 1.5-.7 1.9-.5.5-1 .7-1.9.7h-.5zm38.1 0h-10.4v5.8h3.9v-.2c0-1 .2-1.5.5-1.9.5-.5 1-.7 1.7-.7s1.2.2 1.7.5c.5.5.7 1 .7 1.5v5.3c0 1-.2 1.7-.5 2.2-.2.5-1 .7-1.7.7s-1.5-.2-1.7-.7c-.5-.5-.5-1-.5-1.7v-.5h-3.9v6.8h10.4v-2.7c0-1 .2-1.7.5-2.2.5-.5 1-.7 1.9-.7 1 0 1.5.2 1.9.7.5.5.5 1.2.5 2.2v5.3c0 .7-.2 1.5-.5 1.7s-1 .5-1.9.5h-18.5c-1 0-1.7-.2-2.2-.5-.5-.5-.7-1-.7-1.9 0-.7.2-1.5.7-1.7s1-.7 1.7-.7h.5v-16.8h-.5c-.7 0-1.5-.2-1.7-.7-.5-.5-.7-1-.7-1.9 0-1 .2-1.5.7-1.9.5-.5 1.2-.5 2.2-.5h18.5c1 0 1.5.2 1.9.5.2.2.5.7.5 1.7v5.1c0 1-.2 1.7-.5 2.2-.5.5-1 .7-1.9.7-1 0-1.5-.2-1.9-.7-.5-.5-.5-1.2-.5-2.2v-2.4l-.2-.2zm27 9.4c.5.2.7.7 1.2 1.2 0 0 0 .2.2.2l3.6 5.8h.7c1 0 1.5.2 1.9.5.5.5.7 1 .7 1.9 0 1-.2 1.5-.7 1.9-.5.5-1.2.5-2.2.5h-2.7c-1 0-1.7-.5-2.4-1.2l-5.6-8.5-.7-.7s-.5-.2-1-.2h-2v5.8h.2c.7 0 1.5.2 1.9.7.5.5.7 1 .7 1.7 0 1-.2 1.5-.7 1.9-.5.5-1.2.5-2.2.5h-5.8c-1 0-1.7-.2-2.2-.5-.5-.5-.7-1-.7-1.9 0-.7.2-1.5.7-1.7.5-.5 1-.7 1.7-.7h.5V266h-.5c-.7 0-1.5-.2-1.7-.7-.5-.5-.7-1-.7-1.9 0-1 .2-1.5.7-1.9.5-.5 1.2-.5 2.2-.5h10.4c3.2 0 5.6.7 7.3 1.9s2.4 3.2 2.4 5.6c0 1.7-.5 3.2-1.5 4.4-.8 1.3-2 2.2-3.7 2.7zm-9.2-9.4v6.3h3.2c1.9 0 3.2-.2 3.9-.7.7-.5 1.2-1.2 1.2-2.4s-.2-1.9-1-2.4c-.7-.5-1.7-.7-3.4-.7h-3.9v-.1zm38.1 0h-10.4v5.8h3.9v-.2c0-1 .2-1.5.5-1.9.5-.5 1-.7 1.7-.7s1.2.2 1.7.5c.5.5.7 1 .7 1.5v5.3c0 1-.2 1.7-.5 2.2-.2.5-1 .7-1.7.7s-1.5-.2-1.7-.7c-.5-.5-.5-1-.5-1.7v-.5h-3.9v6.8h10.4v-2.7c0-1 .2-1.7.5-2.2.5-.5 1-.7 1.9-.7s1.5.2 1.9.7c.5.5.5 1.2.5 2.2v5.3c0 .7-.2 1.5-.5 1.7s-1 .5-1.9.5H790c-1 0-1.7-.2-2.2-.5-.5-.5-.7-1-.7-1.9 0-.7.2-1.5.7-1.7s1-.7 1.7-.7h.5v-16.8h-.5c-.7 0-1.5-.2-1.7-.7-.5-.5-.7-1-.7-1.9 0-1 .2-1.5.7-1.9.5-.5 1.2-.5 2.2-.5h18.5c1 0 1.5.2 1.9.5.2.2.5.7.5 1.7v5.1c0 1-.2 1.7-.5 2.2-.5.5-1 .7-1.9.7s-1.5-.2-1.9-.7c-.5-.5-.5-1.2-.5-2.2v-2.4l-.2-.2zm21.4 14.8c1.5 0 2.4.2 3.2 1 .7.7 1.2 1.7 1.2 2.7 0 1.2-.5 1.9-1.2 2.7-.7.7-1.9 1-3.2 1s-2.4-.2-3.2-1c-.7-.7-1.2-1.7-1.2-2.7 0-1.2.5-1.9 1.2-2.7.7-.8 2-1 3.2-1zm2.9-18.2l-1 14.6c0 .5-.2 1-.7 1.2-.5.2-1 .5-1.5.5s-1-.2-1.5-.5c-.5-.2-.5-.7-.7-1.2l-1-14.6v-.2c0-1 .2-1.7.7-2.2.5-.5 1.2-.7 2.2-.7s1.7.2 2.2.7c1 .7 1.3 1.4 1.3 2.4z"/></svg>
+			
 
 			<img class="cleaning-man" src="assets/images/general/man-wiping.gif">
 							

diff --git a/portfolio-current/main.css b/portfolio-current/main.css
@@ -1,1 +1,1 @@
-p{font-size:1em}@font-face{font-family:'SimploCaps';src:url("assets/fonts/SimploCaps.eot");src:url("assets/fonts/SimploCaps.eot?#iefix") format("embedded-opentype"),url("assets/fonts/SimploCaps-webfont.woff") format("woff"),url("assets/fonts/SimploCaps.ttf") format("truetype"),url("assets/fonts/SimploCaps-webfont.svg#SimploCaps") format("svg");font-weight:normal;font-style:normal}@font-face{font-family:'GrandHotel';src:url("assets/fonts/GrandHotel.eot");src:url("assets/fonts/GrandHotel.eot?#iefix") format("embedded-opentype"),url("assets/fonts/GrandHotel-webfont.woff") format("woff"),url("assets/fonts/GrandHotel.otf") format("truetype"),url("assets/fonts/GrandHotel-webfont.svg#SEAS") format("svg");font-weight:normal;font-style:normal}html,body,div,span,applet,object,iframe,h1,h2,h3,h4,h5,h6,p,blockquote,pre,a,abbr,acronym,address,big,cite,code,del,dfn,em,img,ins,kbd,q,s,samp,small,strike,strong,sub,sup,tt,var,b,u,i,center,dl,dt,dd,ol,ul,li,fieldset,form,label,legend,table,caption,tbody,tfoot,thead,tr,th,td,article,aside,canvas,details,embed,figure,figcaption,footer,header,hgroup,menu,nav,output,ruby,section,summary,time,mark,audio,video{margin:0;padding:0;border:0;font-size:100%;font:inherit;vertical-align:baseline}html *>svg{-webkit-transform-origin-x:0%;-webkit-transform-origin-y:0%;-webkit-transform-origin-z:initial}article,aside,details,figcaption,figure,footer,header,hgroup,menu,nav,section{display:block}body{line-height:1}ol,ul{list-style:none}blockquote,q{quotes:none}blockquote:before,blockquote:after,q:before,q:after{content:'';content:none}table{border-collapse:collapse;border-spacing:0}.navigation{position:fixed;top:0;z-index:2000;width:100%;background:#fff;padding:15px 50px 7px}@media (max-width: 640px){.navigation{padding:15px 20px 7px}}.navigation__list{float:right;display:block;padding-top:20px}@media (max-width: 580px){.navigation__list{text-align:center;float:none;padding-top:0px}}.navigation__item{display:inline-block;padding:0 10px;letter-spacing:1px;text-transform:uppercase;font-family:'SimploCaps';font-size:16px}.navigation__item--icon{width:30px;vertical-align:middle;display:inline-block;margin-left:20px}.navigation__link{color:#383732;text-decoration:none}.navigation__logo{width:270px;display:block;float:left}@media (max-width: 580px){.navigation__logo{margin:auto;float:none;padding-top:0px}}nav a:hover{color:#f95a6d;text-decoration:none;transition-duration:800ms}a.nav-active{color:#FFC672}body{height:100%;background-color:#fff}.welcome{height:100vh}.welcome__container{width:65%;position:fixed;left:60%;margin:0 0 0 -43%;padding-top:120px}.welcome__container:before,.welcome__container:after{content:"";display:table}.welcome__container:after{clear:both}.welcome__message{max-width:700px;margin:auto}.welcome__message:before,.welcome__message:after{content:"";display:table}.welcome__message:after{clear:both}.welcome__image{width:75%;max-width:1000px;min-width:300px;display:block;margin:auto}.welcome__headline{font-size:3em;text-shadow:-1.8px -0.4px 0.5px #FFF;color:#2F2F2F;text-align:center;padding:10px 0}@media (max-width: 650px){.welcome__headline{font-size:2em}}.welcome__paragraph{color:#383732;font-size:1em;letter-spacing:1px;text-align:justify}.nub{position:absolute;bottom:0px;left:10px;z-index:-1000;width:230px}.about{height:auto;background:#00FFE4}.work,.about{margin:auto;position:relative}.work{background:#fff}.work__list{position:relative}.work__list:before,.work__list:after{content:"";display:table}.work__list:after{clear:both}.work__container{position:relative;width:100%;margin:auto}.work__item{display:block;padding:30px}.work__item a{display:inline-block;text-decoration:none;color:#383732}.work__image{width:100%;max-width:450px}.work__title{font-size:18px;letter-spacing:1px;padding-top:15px;text-align:center;font-family:'SimploCaps'}img.work-image:hover{outline:2px solid black}img.about{display:block;margin-left:auto;margin-top:5%;margin-right:auto}.section-title{font-size:1.7em;color:#FCFEF5;font-family:'SimploCaps';background:#383732;text-transform:uppercase;text-align:center;padding:35px 0;font-weight:500;letter-spacing:6px;text-shadow:0px 0px 0.4px}.image p{background:rgba(0,0,0,0.8);padding:14px 0;color:white;font-family:'Bentham';width:70%;bottom:0;position:absolute;text-align:center;margin-bottom:3%;display:none}.image:hover p{transition:display 2s;display:block}.type{font-size:.8em;font-style:italic}span#title{font-size:1.2em}#name a img{width:50px}#og-grid.og-grid img{width:100%;max-width:auto}.container{background-color:#ffffff;padding-bottom:5%;z-index:300}.cool-facts{background-color:white;width:75%;padding:5% 1%;margin-top:5%;position:relative;margin:auto}.cool-facts-message{padding:20px}#aboutme div{float:left}a.resume-button{padding:5px 14px;display:inline;width:90px;font-family:'Ideal Sans SSm A', 'Ideal Sans SSm B';font-weight:200;font-style:normal;color:white;margin:0 2px;background-color:#383732}p.hellotext{font-size:14px;line-height:2em;font-family:'Ideal Sans SSm A', 'Ideal Sans SSm B';font-weight:200;font-style:normal}.big-hello{font-size:5.5em;font-family:"GrandHotel";text-align:center}.cleaning-man{bottom:0px;right:0px;position:absolute}footer{position:relative;z-index:2000;background:#383732;font-size:.5em;padding:15px 0;text-align:center;color:white}div.main li.mix{display:none}#buttons{text-align:center}button{border:none;text-transform:uppercase;font-family:'SimploCaps';color:#383732;background:none;outline:none;letter-spacing:.8px;text-align:center;padding:5px 0px;margin:0 .8%;cursor:pointer;cursor:hand;font-size:.89em;border-radius:1px}button:hover{outline:none;color:#FFC672;transition-duration:600ms}button.active{color:#FFC672}.main{padding-top:3%}img#eep{position:relative;float:right;z-index:8000}.work-details{background:#fff;text-align:center;padding:20px 0 60px;margin:20px}.work-details__role{font-size:16px;padding-top:10px}.work-details__title{font-size:28px;margin-bottom:40px;color:#FCFEF5;font-family:'SimploCaps';background:#383732;text-transform:uppercase;text-align:center;padding:25px 0;letter-spacing:6px}.work__image--main,.image__caption{width:100%;margin:40px auto 0;min-width:300px;max-width:600px}.work__image--main--dwell,.image__caption--dwell{max-width:400px;margin:30px}.image__caption{font-size:13px;color:#969696;line-height:14px;margin:20px auto 30px;text-align:left}.work__image:hover{outline:1px solid black}.work__explanation{width:70%;text-align:left;line-height:19.2px;font-size:16px;font-family:'Vollkorn', serif;margin:30px auto;max-width:630px;min-width:270px}.work__explanation p{padding:10px 0}.work__explanation ul{list-style-type:disc;padding-left:15px}.work__explanation strong{font-weight:bold}.work__explanation__title{font-weight:bold;font-size:18px;padding-top:20px}.work__explanation__subtitle{color:#969696;font-size:16px}*,*:after,*:before{-webkit-box-sizing:border-box;-moz-box-sizing:border-box;box-sizing:border-box}body{margin:0px}[class*='col-']{float:left;padding-right:20px}.grid{width:100%;max-width:1280px;min-width:755px;margin:0 auto;overflow:hidden}.grid:after{content:"";display:table;clear:both}.grid-pad{margin-top:65px;margin-bottom:20px;padding-left:20px;padding-right:0px}.push-right{float:right}.col-1-1{width:100%}.col-2-3,.col-8-12{width:66.66%}.col-1-2,.col-6-12{width:50%}.col-1-3,.col-4-12{width:33.33%}.col-1-4,.col-3-12{width:25%}.col-1-5{width:20%}.col-1-6,.col-2-12{width:16.667%}.col-1-7{width:14.28%}.col-1-8{width:12.5%}.col-1-9{width:11.1%}.col-1-10{width:10%}.col-1-11{width:9.09%}.col-1-12{width:8.33%}.col-11-12{width:91.66%}.col-10-12{width:83.333%}.col-9-12{width:75%}.col-5-12{width:41.66%}.col-7-12{width:58.33%}.push-2-3,.push-8-12{margin-left:66.66%}.push-1-2,.push-6-12{margin-left:50%}.push-1-3,.push-4-12{margin-left:33.33%}.push-1-4,.push-3-12{margin-left:25%}.push-1-5{margin-left:20%}.push-1-6,.push-2-12{margin-left:16.667%}.push-1-7{margin-left:14.28%}.push-1-8{margin-left:12.5%}.push-1-9{margin-left:11.1%}.push-1-10{margin-left:10%}.push-1-11{margin-left:9.09%}.push-1-12{margin-left:8.33%}@media handheld, only screen and (max-width: 767px){.grid{width:100%;min-width:0;margin-left:0px;margin-right:0px;padding-left:20px;padding-right:10px}[class*='col-']{width:auto;float:none;margin-left:0px;margin-right:0px;margin-top:10px;margin-bottom:10px;padding-left:0px;padding-right:10px}[class*='mobile-col-']{float:left;margin-left:0px;margin-right:0px;margin-top:0px;margin-bottom:10px;padding-left:0px;padding-right:10px;padding-bottom:0px}.mobile-col-1-1{width:100%}.mobile-col-2-3,.mobile-col-8-12{width:66.66%}.mobile-col-1-2,.mobile-col-6-12{width:50%}.mobile-col-1-3,.mobile-col-4-12{width:33.33%}.mobile-col-1-4,.mobile-col-3-12{width:25%}.mobile-col-1-5{width:20%}.mobile-col-1-6,.mobile-col-2-12{width:16.667%}.mobile-col-1-7{width:14.28%}.mobile-col-1-8{width:12.5%}.mobile-col-1-9{width:11.1%}.mobile-col-1-10{width:10%}.mobile-col-1-11{width:9.09%}.mobile-col-1-12{width:8.33%}.mobile-col-11-12{width:91.66%}.mobile-col-10-12{width:83.333%}.mobile-col-9-12{width:75%}.mobile-col-5-12{width:41.66%}.mobile-col-7-12{width:58.33%}.hide-on-mobile{display:none !important;width:0;height:0}}
+p{font-size:1em}@font-face{font-family:'SimploCaps';src:url("assets/fonts/SimploCaps.eot");src:url("assets/fonts/SimploCaps.eot?#iefix") format("embedded-opentype"),url("assets/fonts/SimploCaps-webfont.woff") format("woff"),url("assets/fonts/SimploCaps.ttf") format("truetype"),url("assets/fonts/SimploCaps-webfont.svg#SimploCaps") format("svg");font-weight:normal;font-style:normal}@font-face{font-family:'GrandHotel';src:url("assets/fonts/GrandHotel.eot");src:url("assets/fonts/GrandHotel.eot?#iefix") format("embedded-opentype"),url("assets/fonts/GrandHotel-webfont.woff") format("woff"),url("assets/fonts/GrandHotel.otf") format("truetype"),url("assets/fonts/GrandHotel-webfont.svg#SEAS") format("svg");font-weight:normal;font-style:normal}html,body,div,span,applet,object,iframe,h1,h2,h3,h4,h5,h6,p,blockquote,pre,a,abbr,acronym,address,big,cite,code,del,dfn,em,img,ins,kbd,q,s,samp,small,strike,strong,sub,sup,tt,var,b,u,i,center,dl,dt,dd,ol,ul,li,fieldset,form,label,legend,table,caption,tbody,tfoot,thead,tr,th,td,article,aside,canvas,details,embed,figure,figcaption,footer,header,hgroup,menu,nav,output,ruby,section,summary,time,mark,audio,video{margin:0;padding:0;border:0;font-size:100%;font:inherit;vertical-align:baseline}html *>svg{-webkit-transform-origin-x:0%;-webkit-transform-origin-y:0%;-webkit-transform-origin-z:initial}article,aside,details,figcaption,figure,footer,header,hgroup,menu,nav,section{display:block}body{line-height:1}ol,ul{list-style:none}blockquote,q{quotes:none}blockquote:before,blockquote:after,q:before,q:after{content:'';content:none}table{border-collapse:collapse;border-spacing:0}.navigation{position:fixed;top:0;z-index:2000;width:100%;background:#fff;padding:15px 50px 7px}@media (max-width: 640px){.navigation{padding:15px 20px 7px}}.navigation__list{float:right;display:block;padding-top:20px}@media (max-width: 580px){.navigation__list{text-align:center;float:none;padding-top:0px}}.navigation__item{display:inline-block;padding:0 10px;letter-spacing:1px;text-transform:uppercase;font-family:'SimploCaps';font-size:16px}.navigation__item--icon{width:30px;vertical-align:middle;display:inline-block;margin-left:20px}.navigation__link{color:#383732;text-decoration:none}.navigation__logo{width:270px;display:block;float:left}@media (max-width: 580px){.navigation__logo{margin:auto;float:none;padding-top:0px}}nav a:hover{color:#f95a6d;text-decoration:none;transition-duration:800ms}a.nav-active{color:#FFC672}body{height:100%;background-color:#fff}.welcome{height:100vh}.welcome__container{width:100%;position:fixed;padding:80px 20px 0}.welcome__container:before,.welcome__container:after{content:"";display:table}.welcome__container:after{clear:both}@media (max-width: 650px){.welcome__container{padding-top:130px;font-size:12px}}.welcome__message{max-width:700px;margin:auto}.welcome__message:before,.welcome__message:after{content:"";display:table}.welcome__message:after{clear:both}.welcome__image-container{width:100%}.welcome__image{width:50%;max-width:500px;min-width:280px;display:block;margin:auto}.welcome__headline{font-size:3em;text-shadow:-1.8px -0.4px 0.5px #FFF;color:#2F2F2F;text-align:center;padding:10px 0}@media (max-width: 650px){.welcome__headline{font-size:2em}}.welcome__paragraph{color:#383732;font-size:1em;letter-spacing:1px;text-align:justify}.nub{position:absolute;bottom:0px;left:10px;z-index:-1000;width:230px}.about{height:auto;background:#00FFE4}.work,.about{margin:auto;position:relative}.work{background:#fff}.work__list{position:relative}.work__list:before,.work__list:after{content:"";display:table}.work__list:after{clear:both}.work__container{position:relative;width:100%;margin:auto}.work__item{display:block;padding:30px}.work__item a{display:inline-block;text-decoration:none;color:#383732}.work__image{width:100%;max-width:450px}.work__title{font-size:18px;letter-spacing:1px;padding-top:15px;text-align:center;font-family:'SimploCaps'}img.work-image:hover{outline:2px solid black}img.about{display:block;margin-left:auto;margin-top:5%;margin-right:auto}.section-title{font-size:1.7em;color:#FCFEF5;font-family:'SimploCaps';background:#383732;text-transform:uppercase;text-align:center;padding:35px 0;font-weight:500;letter-spacing:6px;text-shadow:0px 0px 0.4px}.image p{background:rgba(0,0,0,0.8);padding:14px 0;color:white;font-family:'Bentham';width:70%;bottom:0;position:absolute;text-align:center;margin-bottom:3%;display:none}.image:hover p{transition:display 2s;display:block}.type{font-size:.8em;font-style:italic}span#title{font-size:1.2em}#name a img{width:50px}#og-grid.og-grid img{width:100%;max-width:auto}.container{background-color:#ffffff;padding-bottom:5%;z-index:300}.cool-facts{background-color:white;width:75%;padding:5% 1%;margin-top:5%;position:relative;margin:auto}.cool-facts-message{padding:20px}#aboutme div{float:left}a.resume-button{padding:5px 14px;display:inline;width:90px;font-family:'Ideal Sans SSm A', 'Ideal Sans SSm B';font-weight:200;font-style:normal;color:white;margin:0 2px;background-color:#383732}p.hellotext{font-size:14px;line-height:2em;font-family:'Ideal Sans SSm A', 'Ideal Sans SSm B';font-weight:200;font-style:normal}.big-hello{font-size:5.5em;font-family:"GrandHotel";text-align:center}.cleaning-man{bottom:0px;right:0px;position:absolute}footer{position:relative;z-index:2000;background:#383732;font-size:.5em;padding:15px 0;text-align:center;color:white}div.main li.mix{display:none}#buttons{text-align:center}button{border:none;text-transform:uppercase;font-family:'SimploCaps';color:#383732;background:none;outline:none;letter-spacing:.8px;text-align:center;padding:5px 0px;margin:0 .8%;cursor:pointer;cursor:hand;font-size:.89em;border-radius:1px}button:hover{outline:none;color:#FFC672;transition-duration:600ms}button.active{color:#FFC672}.main{padding-top:3%}img#eep{position:relative;float:right;z-index:8000}.work-details{background:#fff;text-align:center;padding:20px 0 60px;margin:20px}.work-details__role{font-size:16px;padding-top:10px}.work-details__title{font-size:28px;margin-bottom:40px;color:#FCFEF5;font-family:'SimploCaps';background:#383732;text-transform:uppercase;text-align:center;padding:25px 0;letter-spacing:6px}.work__image--main,.image__caption{width:100%;margin:40px auto 0;min-width:300px;max-width:600px}.work__image--main--dwell,.image__caption--dwell{max-width:400px;margin:30px}.image__caption{font-size:13px;color:#969696;line-height:14px;margin:20px auto 30px;text-align:left}.work__image:hover{outline:1px solid black}.work__explanation{width:70%;text-align:left;line-height:19.2px;font-size:16px;font-family:'Vollkorn', serif;margin:30px auto;max-width:630px;min-width:270px}.work__explanation p{padding:10px 0}.work__explanation ul{list-style-type:disc;padding-left:15px}.work__explanation strong{font-weight:bold}.work__explanation__title{font-weight:bold;font-size:18px;padding-top:20px}.work__explanation__subtitle{color:#969696;font-size:16px}*,*:after,*:before{-webkit-box-sizing:border-box;-moz-box-sizing:border-box;box-sizing:border-box}body{margin:0px}[class*='col-']{float:left;padding-right:20px}.grid{width:100%;max-width:1280px;min-width:755px;margin:0 auto;overflow:hidden}.grid:after{content:"";display:table;clear:both}.grid-pad{margin-top:65px;margin-bottom:20px;padding-left:20px;padding-right:0px}.push-right{float:right}.col-1-1{width:100%}.col-2-3,.col-8-12{width:66.66%}.col-1-2,.col-6-12{width:50%}.col-1-3,.col-4-12{width:33.33%}.col-1-4,.col-3-12{width:25%}.col-1-5{width:20%}.col-1-6,.col-2-12{width:16.667%}.col-1-7{width:14.28%}.col-1-8{width:12.5%}.col-1-9{width:11.1%}.col-1-10{width:10%}.col-1-11{width:9.09%}.col-1-12{width:8.33%}.col-11-12{width:91.66%}.col-10-12{width:83.333%}.col-9-12{width:75%}.col-5-12{width:41.66%}.col-7-12{width:58.33%}.push-2-3,.push-8-12{margin-left:66.66%}.push-1-2,.push-6-12{margin-left:50%}.push-1-3,.push-4-12{margin-left:33.33%}.push-1-4,.push-3-12{margin-left:25%}.push-1-5{margin-left:20%}.push-1-6,.push-2-12{margin-left:16.667%}.push-1-7{margin-left:14.28%}.push-1-8{margin-left:12.5%}.push-1-9{margin-left:11.1%}.push-1-10{margin-left:10%}.push-1-11{margin-left:9.09%}.push-1-12{margin-left:8.33%}@media handheld, only screen and (max-width: 767px){.grid{width:100%;min-width:0;margin-left:0px;margin-right:0px;padding-left:20px;padding-right:10px}[class*='col-']{width:auto;float:none;margin-left:0px;margin-right:0px;margin-top:10px;margin-bottom:10px;padding-left:0px;padding-right:10px}[class*='mobile-col-']{float:left;margin-left:0px;margin-right:0px;margin-top:0px;margin-bottom:10px;padding-left:0px;padding-right:10px;padding-bottom:0px}.mobile-col-1-1{width:100%}.mobile-col-2-3,.mobile-col-8-12{width:66.66%}.mobile-col-1-2,.mobile-col-6-12{width:50%}.mobile-col-1-3,.mobile-col-4-12{width:33.33%}.mobile-col-1-4,.mobile-col-3-12{width:25%}.mobile-col-1-5{width:20%}.mobile-col-1-6,.mobile-col-2-12{width:16.667%}.mobile-col-1-7{width:14.28%}.mobile-col-1-8{width:12.5%}.mobile-col-1-9{width:11.1%}.mobile-col-1-10{width:10%}.mobile-col-1-11{width:9.09%}.mobile-col-1-12{width:8.33%}.mobile-col-11-12{width:91.66%}.mobile-col-10-12{width:83.333%}.mobile-col-9-12{width:75%}.mobile-col-5-12{width:41.66%}.mobile-col-7-12{width:58.33%}.hide-on-mobile{display:none !important;width:0;height:0}}

diff --git a/portfolio-current/scss/_home.scss b/portfolio-current/scss/_home.scss
@@ -11,13 +11,15 @@ body {
 
     &__container {
       @include clearfix;
-      width: 65%;
+      width: 100%;
       position: fixed;
-      left: 60%;
-      margin: 0 0 0 -43%;
-      padding-top: 120px;
+      // left: 60%;
+      // margin: 0 0 0 -43%;
+      padding: 80px 20px 0;
 
       @media (max-width: 650px) {
+        padding-top: 130px;
+        font-size: 12px;
       }    
     }
 
@@ -28,10 +30,14 @@ body {
     
     }
 
+    &__image-container {
+      width: 100%;
+    }
+
     &__image {
-      width: 75%;
-      max-width:1000px;
-      min-width:300px;
+      width: 50%;
+      max-width:500px;
+      min-width:280px;
       display: block;
       margin: auto;
     }
